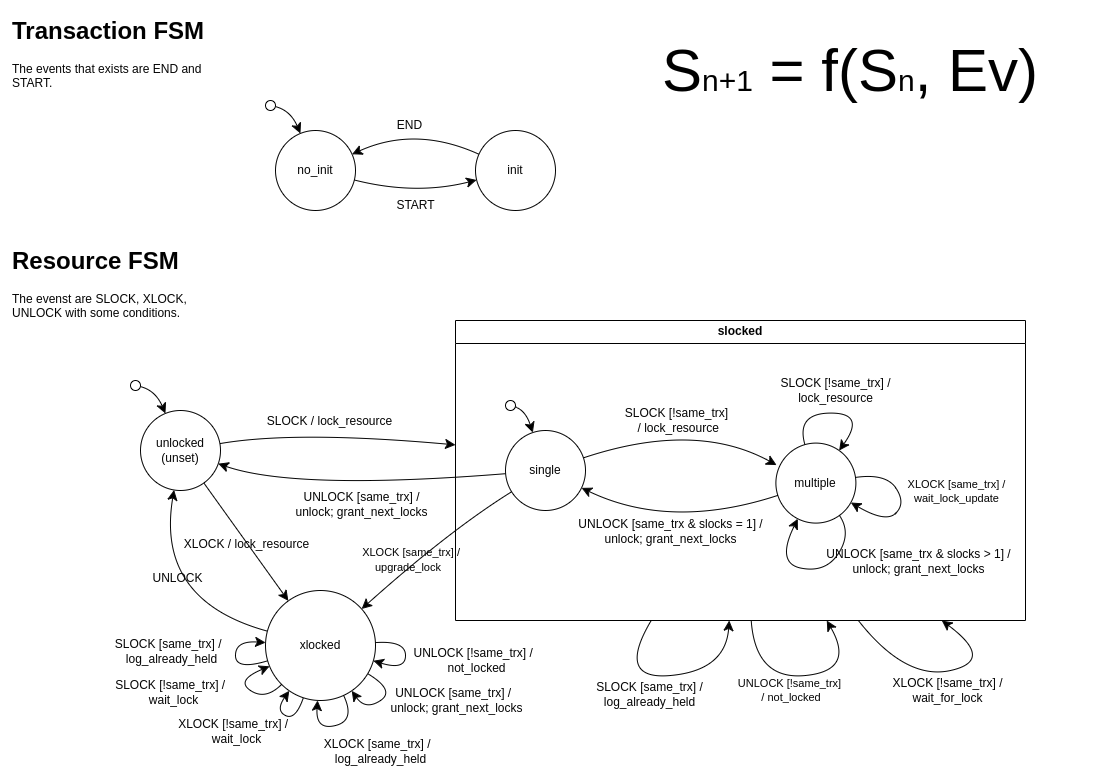
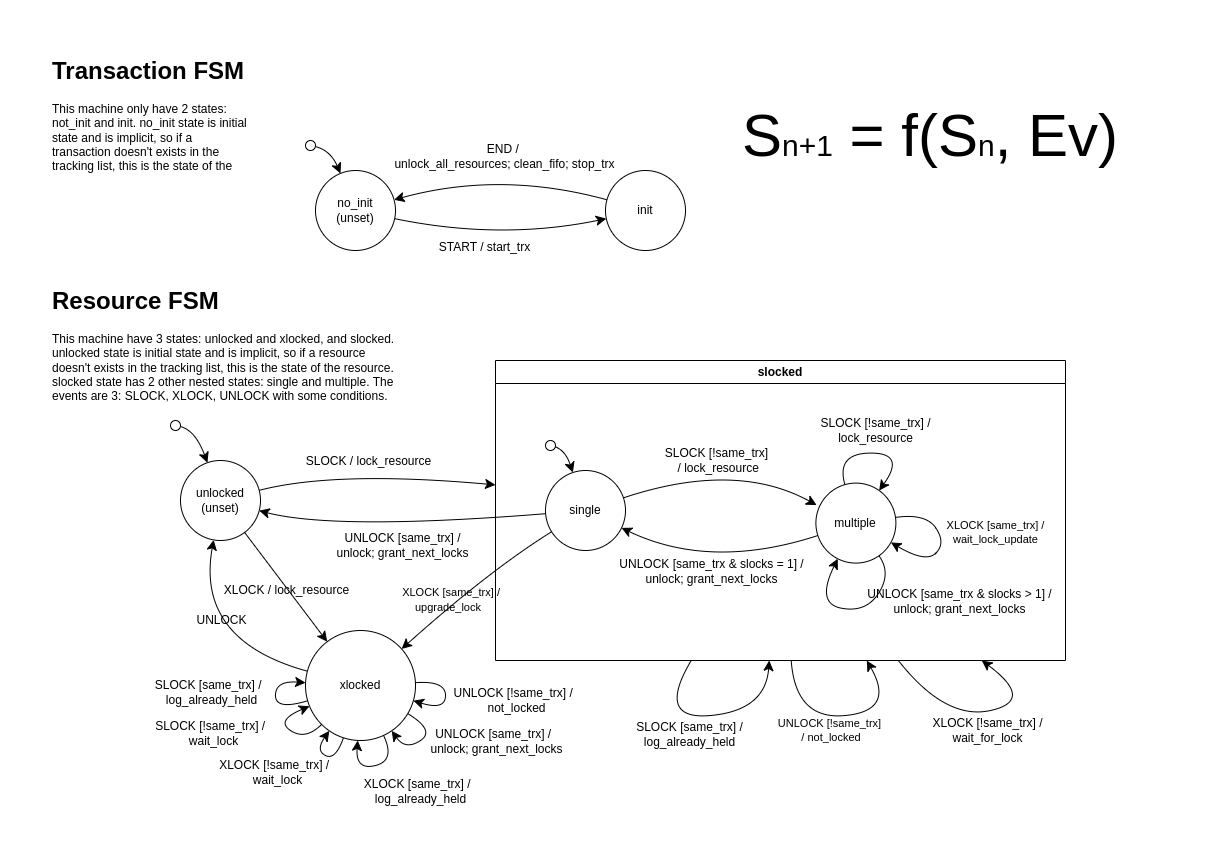
fix diagram an documentation

diff --git a/src/lock_manager/simple.py b/src/lock_manager/simple.py
@@ -26,6 +26,23 @@ class Command:
 
 
 class LockManager:
+    """
+    Manages the lifecycle of transactions in the lock management system.
+
+    This method implements the transaction and resource Finite State Machine (FSM) logic,
+    handling multiple events. It tracks transaction state
+    and ensures proper resource unlocking when a transaction ends.
+
+    Args:
+        req (Events): The event triggering the transaction state change
+        transaction (int): The unique identifier for the transaction
+        resource (str)(optional): The name of the resource to lock/unlock 
+
+    Returns:
+        list[Command]: A list of commands representing the transaction state changes
+
+    See see fsm-diagram.png graphs for design reference
+    """
 
     def __init__(self):
         self.held_locks = {}
@@ -35,6 +52,7 @@ class LockManager:
 
     def process_request(self, request: str, transaction: int, resource: str = None) -> list[Command]:
         """Business logic, based in transaction and resource FSMs"""
+
         cmds = []
         try:
             req = Events(request)
@@ -51,6 +69,8 @@ class LockManager:
         return cmds
 
     def transactionFSM(self, req, transaction):
+        """see fsm-diagram.png/transaction FSM for design reference"""
+
         cmds = []
 
         # not_init state
@@ -95,6 +115,8 @@ class LockManager:
         return cmds
 
     def resourceFSM(self, req, transaction, resource):
+        """see fsm-diagram.png/resource FSM for design reference"""
+
         cmds = []
 
         if transaction not in self.transactions:
@@ -112,10 +134,10 @@ class LockManager:
                 cmds.append(
                     Command('not_locked', transaction, resource))
 
-        # slocked state
+        # slocked superstate
         elif self.resource_state(resource)[0][1] is States.slock:
 
-            # other cases of slocked state
+            # other cases of slocked superstate
             if req is Events.SLOCK:
                 if self.same_trx(transaction, resource):
                     cmds.append(
@@ -229,13 +251,14 @@ class LockManager:
         return [Command('unlocked', transaction, resource, lock_type)]
 
     def grant_next_locks(self, resource: str):
-        cmds = []
+        """ Grant all locks waiting (FIFO), there are three cases:
+           1. There are no locks waiting, so no one will be granted.
+           2. The following locks (one or more) are slock, in this case,
+              all these slock will be granted, until a xlock is found or end of the list are reached.
+           3. The following lock is a xlock, in this case only this will be granted.
+        """
 
-        # Grant all locks waiting (FIFO), there are three cases:
-        # 1. there are no locks waiting, so no one will be granted
-        # 2. the following locks (one or more) are slock, in this case,
-        # all these slock will be granted, until a xlock is found or end of the list are reached.
-        # 3. the following lock is a xlock, in this case only this will be granted.
+        cmds = []
         while len(self.resource_fifo.get(resource, {})) > 0:
             transaction, lock_type = list(
                 self.resource_fifo[resource].items())[0]
@@ -261,6 +284,7 @@ class LockManager:
 
     def commands_mapping(self, cmd: Command):
         """Out Adapter for the commands returned from business logic"""
+
         mapping = {
             'cmd_not_valid': lambda cmd: IndexError("Command not valid"),
             'transaction_started': lambda cmd: f"Start {cmd.transaction} : Transaction {cmd.transaction} started",
@@ -291,6 +315,7 @@ class LockManager:
 
     def process_request_str(self, request_str: str) -> list[str]:
         """Adapter for business logic, IN/OUT conversion"""
+
         # Using regex groups
         pattern = r"^(\w+) (\d+) ?(\w+)?_*$"
         match = re.search(pattern, request_str)

diff --git a/README.md b/README.md
@@ -135,6 +135,7 @@ pytest
 
 This implementation is based in these FSMs:
 
+
 ![FSM diagram](./fsm-diagram.png)
 
 
